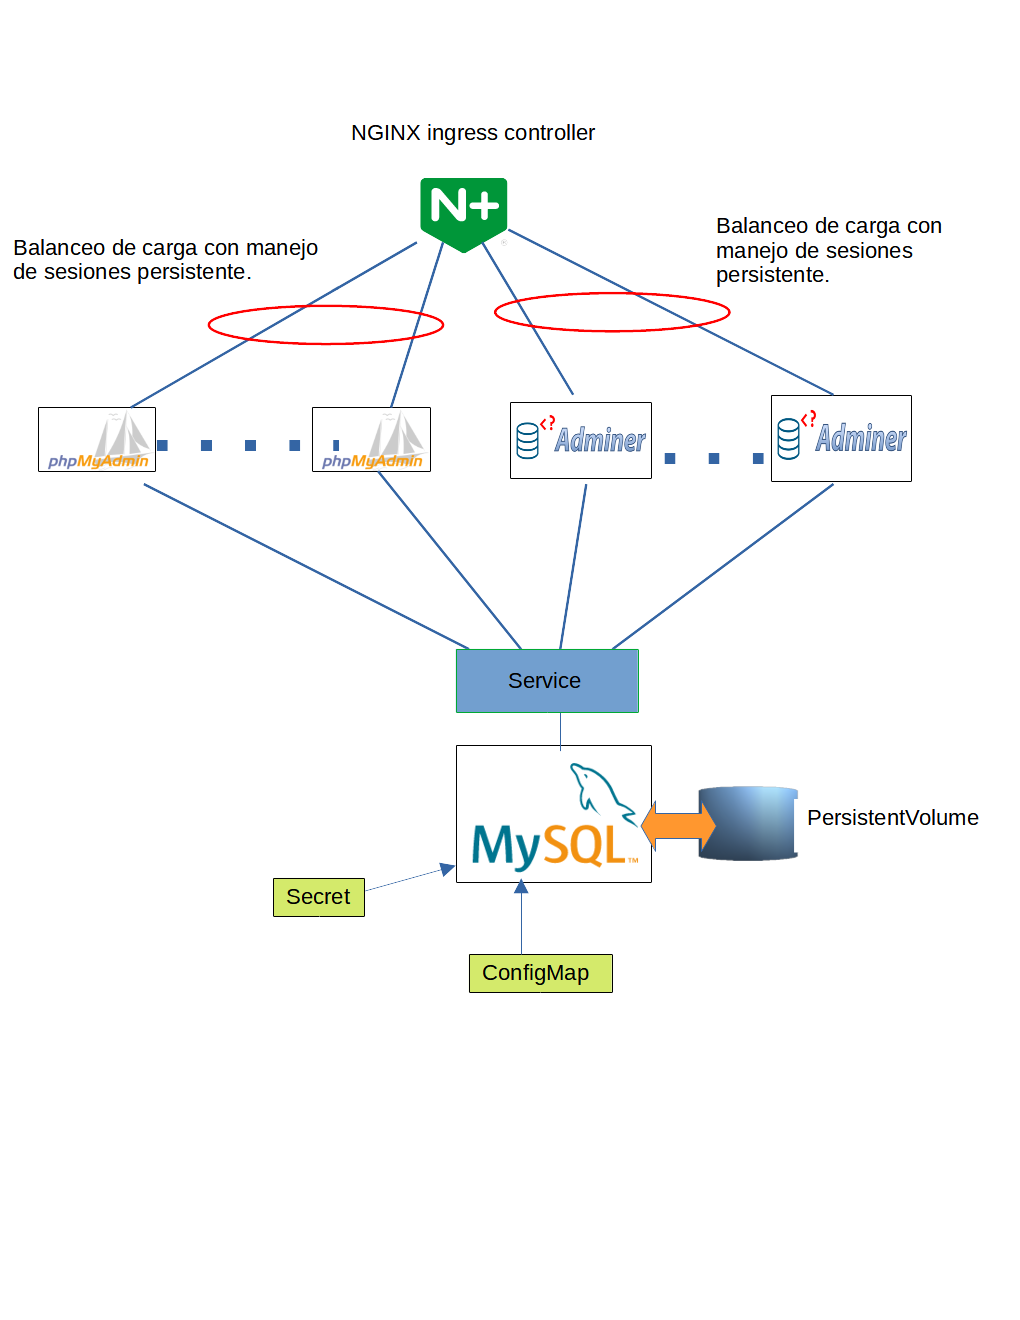
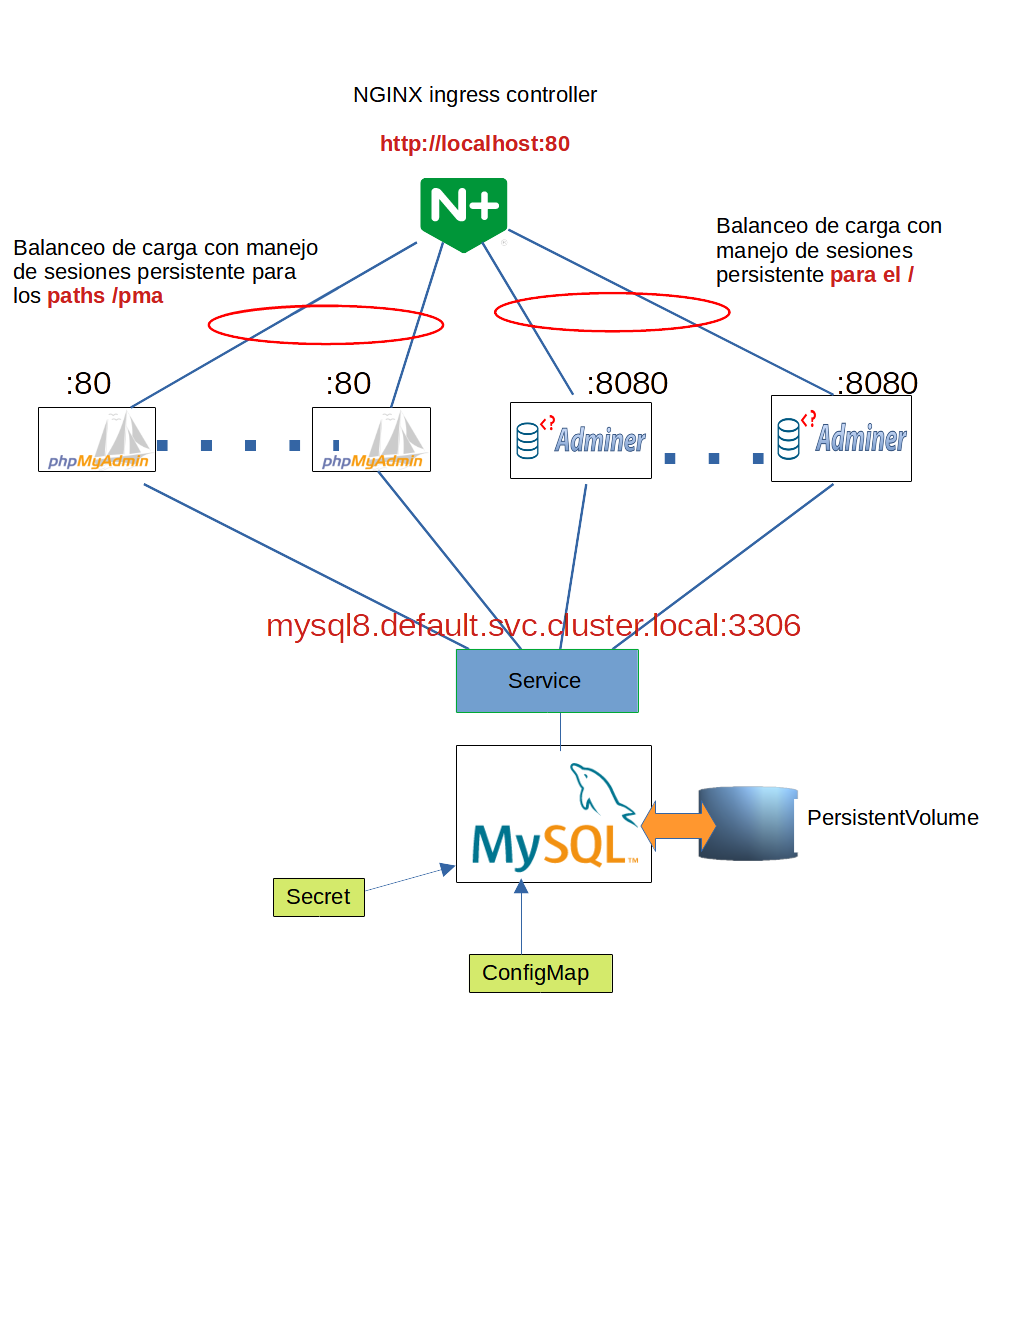
imagenes de deploy y acceso a los frontends

diff --git a/README.md b/README.md
@@ -16,6 +16,19 @@ de una aplicación en tres capas en kubernetes.
 ![Arquitectura](images/DiagramaKubernetes.png)
 
 
+## Acceso a la aplicación frontend Adminer
+
+En este caso solo resta poner la password que se puede configurar en el chart (ver "Configuración de parametros").
+
+![Acceso Adminer](images/adminer.png)
+
+
+## Acceso a la aplicación frontend phpmyadmin
+
+En este caso solo resta poner la password que se puede configurar en el chart (ver "Configuración de parametros"). En el servidor se debe escribir a mano "mysql8.default.svc.cluster.local" ya que la imagen de docker utilizada no se le puede configurar como si se podía en la de adminer.
+
+![Acceso phpmyadmin](images/admphpmyadmininer.png)
+
 ## Instalación
 
 Para la instalación del mismo existen varias formas, las cuales se ven a continuación.
@@ -29,34 +42,34 @@ Primero agregar el repositorio a los repositorios locales:
 `helm repo add pruebaRepo https://github.com/giachino/kubernetesFingProject/raw/create_repo/fingHelmPackage`
 
 Luego de agregar el repo con nombre "pruebaRepo" podemos instalar el chart en el paquete "fingHelmChart"
-y hacer que localmente ese deploy tenga nombre "miDeploy":
+y hacer que localmente ese deploy tenga nombre "pruebalocal":
 
-`helm install miDeploy pruebaRepo/fingHelmChart`
+`helm install pruebalocal pruebaRepo/fingHelmChart`
 
 ### Desde un archivo de chart local
 
 Teniendo el package de forma local 
 
-`helm install miDeploy fingHelmChart-1.0.0.tgz`
+`helm install pruebalocal fingHelmChart-1.0.0.tgz`
 
 ### Desde un directorio de chart descomprimido
 
 Si hacemos refencia al directorio raíz local del chart, podemos instalarlo así:
 
-`helm install miDeploy path/to/fingHelmChart`
+`helm install pruebalocal path/to/fingHelmChart`
 
 ### Desde una URL completa
 
 Con la URL absoluta al archivo de package:
 
-`helm install miDeploy https://github.com/giachino/kubernetesFingProject/raw/create_repo/fingHelmPackage/fingHelmChart-1.0.0.tgz`
+`helm install pruebalocal https://github.com/giachino/kubernetesFingProject/raw/create_repo/fingHelmPackage/fingHelmChart-1.0.0.tgz`
 
 
 ## Desintalación
 
 Para desinstalar el chart que instalamos de nombre "miDeploy":
 
-`helm repo remove pruebaRepo`
+`helm repo remove pruebalocal`
 
 
 ## Configuración de parametros
